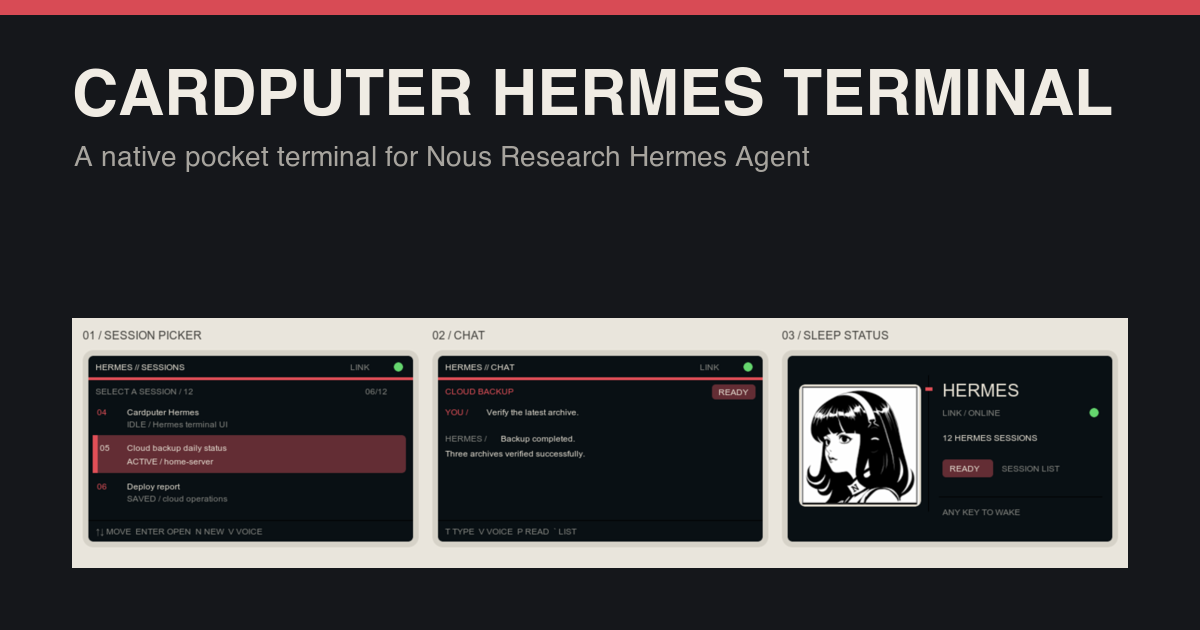
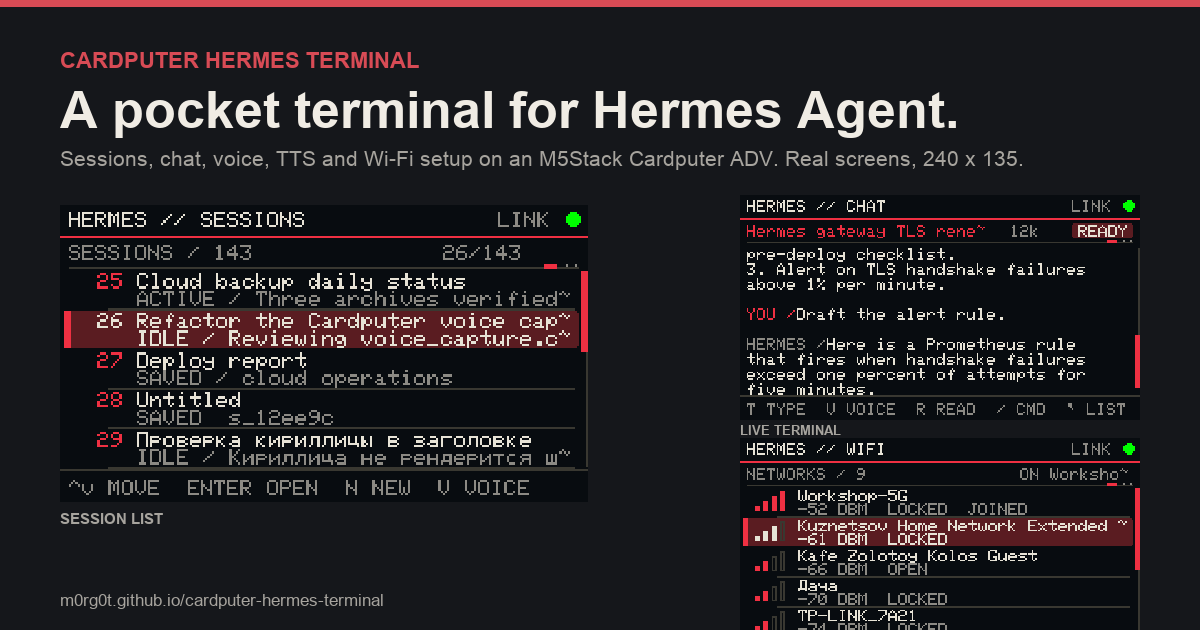
Site and README: add Wi-Fi, Cyrillic, and Status frames; real OG image
The interface section and README grid gain the Wi-Fi list, the Russian
chat, and the Status page, all rendered by the preview harness. The
social preview (site/assets/og.png) is rebuilt from real frames instead
of the hand-drawn mock-up.

Claude-Session: https://claude.ai/code/session_01Sci3RK4DQBHuAvq2gsccMu

diff --git a/site/index.html b/site/index.html
@@ -72,6 +72,9 @@
         <figure><img src="assets/screens/recording.png" width="720" height="405" alt="Voice recording with a twelve segment level meter" loading="lazy"><figcaption>VOICE</figcaption></figure>
         <figure><img src="assets/screens/help-manual.png" width="720" height="405" alt="On-device key manual" loading="lazy"><figcaption>MANUAL</figcaption></figure>
         <figure><img src="assets/screens/sleep-ready.png" width="720" height="405" alt="Hermes portrait sleep screen" loading="lazy"><figcaption>SLEEP STATUS</figcaption></figure>
+        <figure><img src="assets/screens/wifi-list.png" width="720" height="405" alt="Wi-Fi networks listed by signal with joined and saved markers" loading="lazy"><figcaption>WI-FI</figcaption></figure>
+        <figure><img src="assets/screens/chat-cyrillic.png" width="720" height="405" alt="Russian Hermes reply rendered with the built-in Cyrillic glyphs" loading="lazy"><figcaption>CYRILLIC</figcaption></figure>
+        <figure><img src="assets/screens/help-status.png" width="720" height="405" alt="Status page with network details and indicator legend" loading="lazy"><figcaption>STATUS</figcaption></figure>
       </div>
       <p class="shots-note">Real frames rendered by the firmware's drawing code through the SDL preview harness, 240 x 135 pixels at 3x. Regenerate with <code>python3 sim/render_docs.py</code>.</p>
     </section>

diff --git a/README.md b/README.md
@@ -21,11 +21,16 @@
     <td><img src="docs/images/screens/help-manual.png" alt="On-device key manual" width="240"></td>
     <td><img src="docs/images/screens/sleep-ready.png" alt="Hermes portrait sleep screen" width="240"></td>
   </tr>
+  <tr>
+    <td><img src="docs/images/screens/wifi-list.png" alt="Wi-Fi networks by signal with joined and saved markers" width="240"></td>
+    <td><img src="docs/images/screens/chat-cyrillic.png" alt="Russian Hermes reply rendered with the built-in Cyrillic glyphs" width="240"></td>
+    <td><img src="docs/images/screens/help-status.png" alt="Status page with network details and indicator legend" width="240"></td>
+  </tr>
 </table>
 
 These frames are rendered by the firmware's own drawing code through the
 [desktop preview](sim/README.md); regenerate them with
-`python3 sim/render_docs.py`. All 36 scripted screens are in
+`python3 sim/render_docs.py`. All scripted screens are in
 [docs/images/screens](docs/images/screens).
 
 Cardputer Hermes Terminal is a purpose-built ESP32-S3 client for a self-hosted Hermes Agent Dashboard. It reproduces the Desktop connection flow on-device: authenticate over REST, request a short-lived WebSocket ticket, then connect to Hermes directly — without a relay service or notes recorder.
